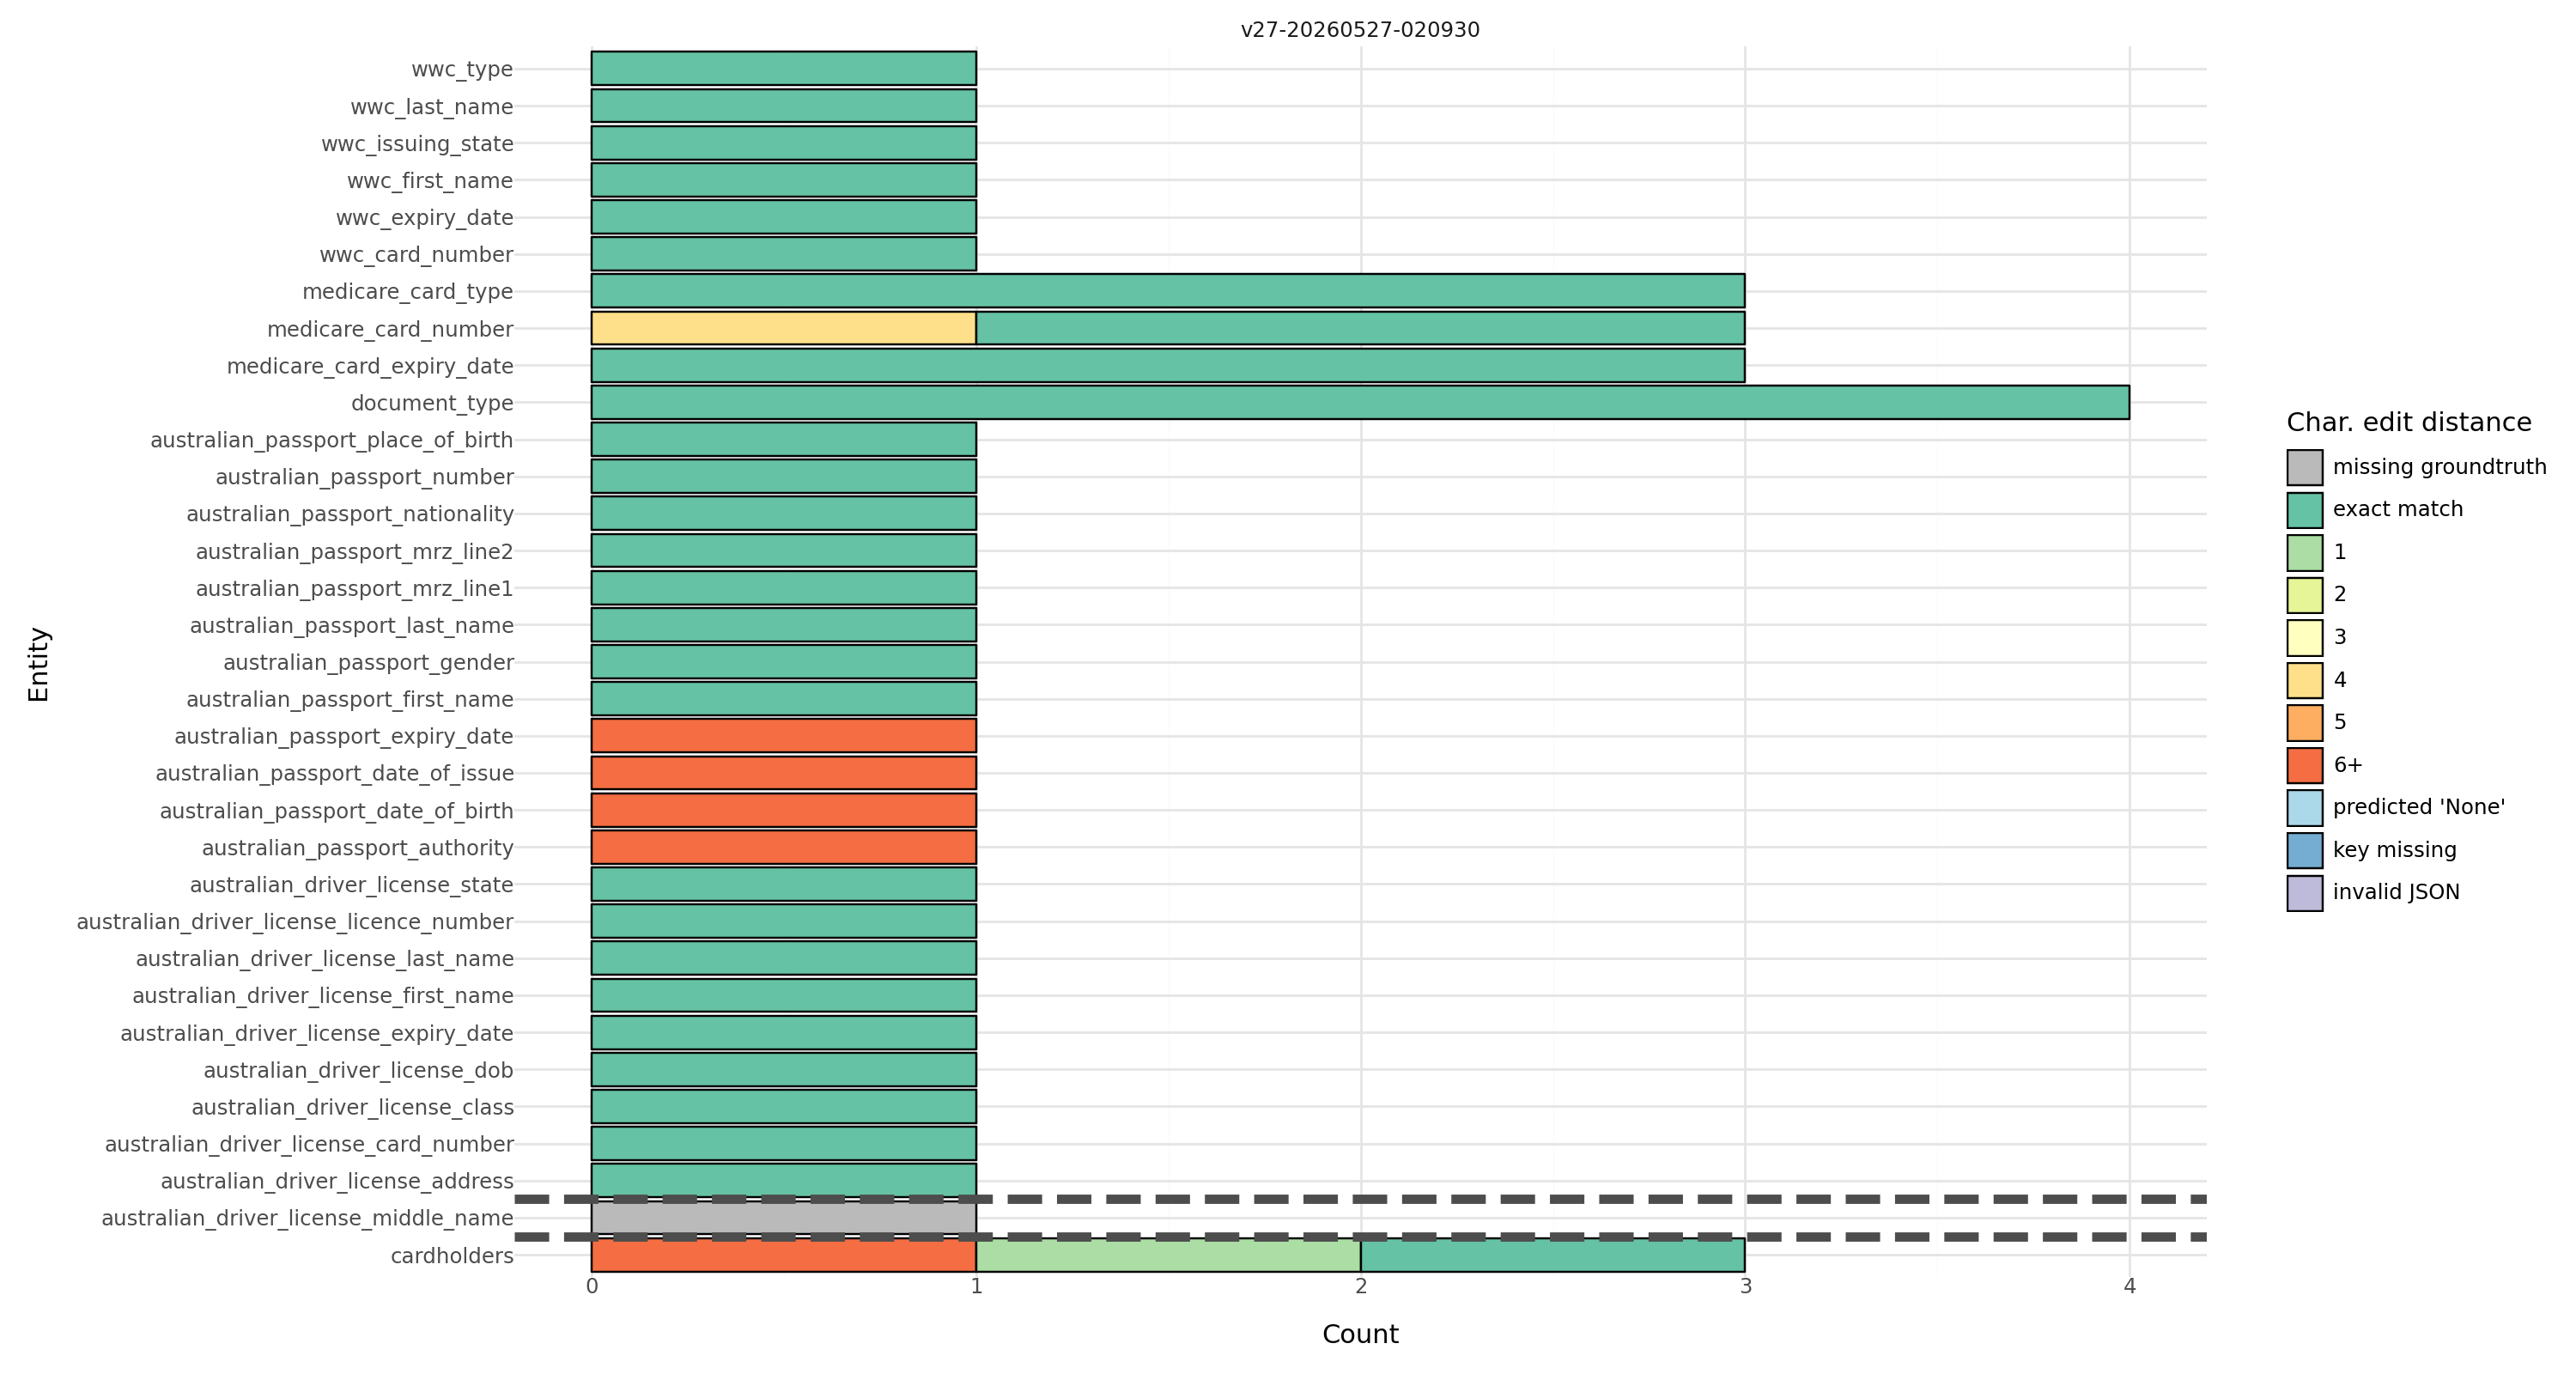
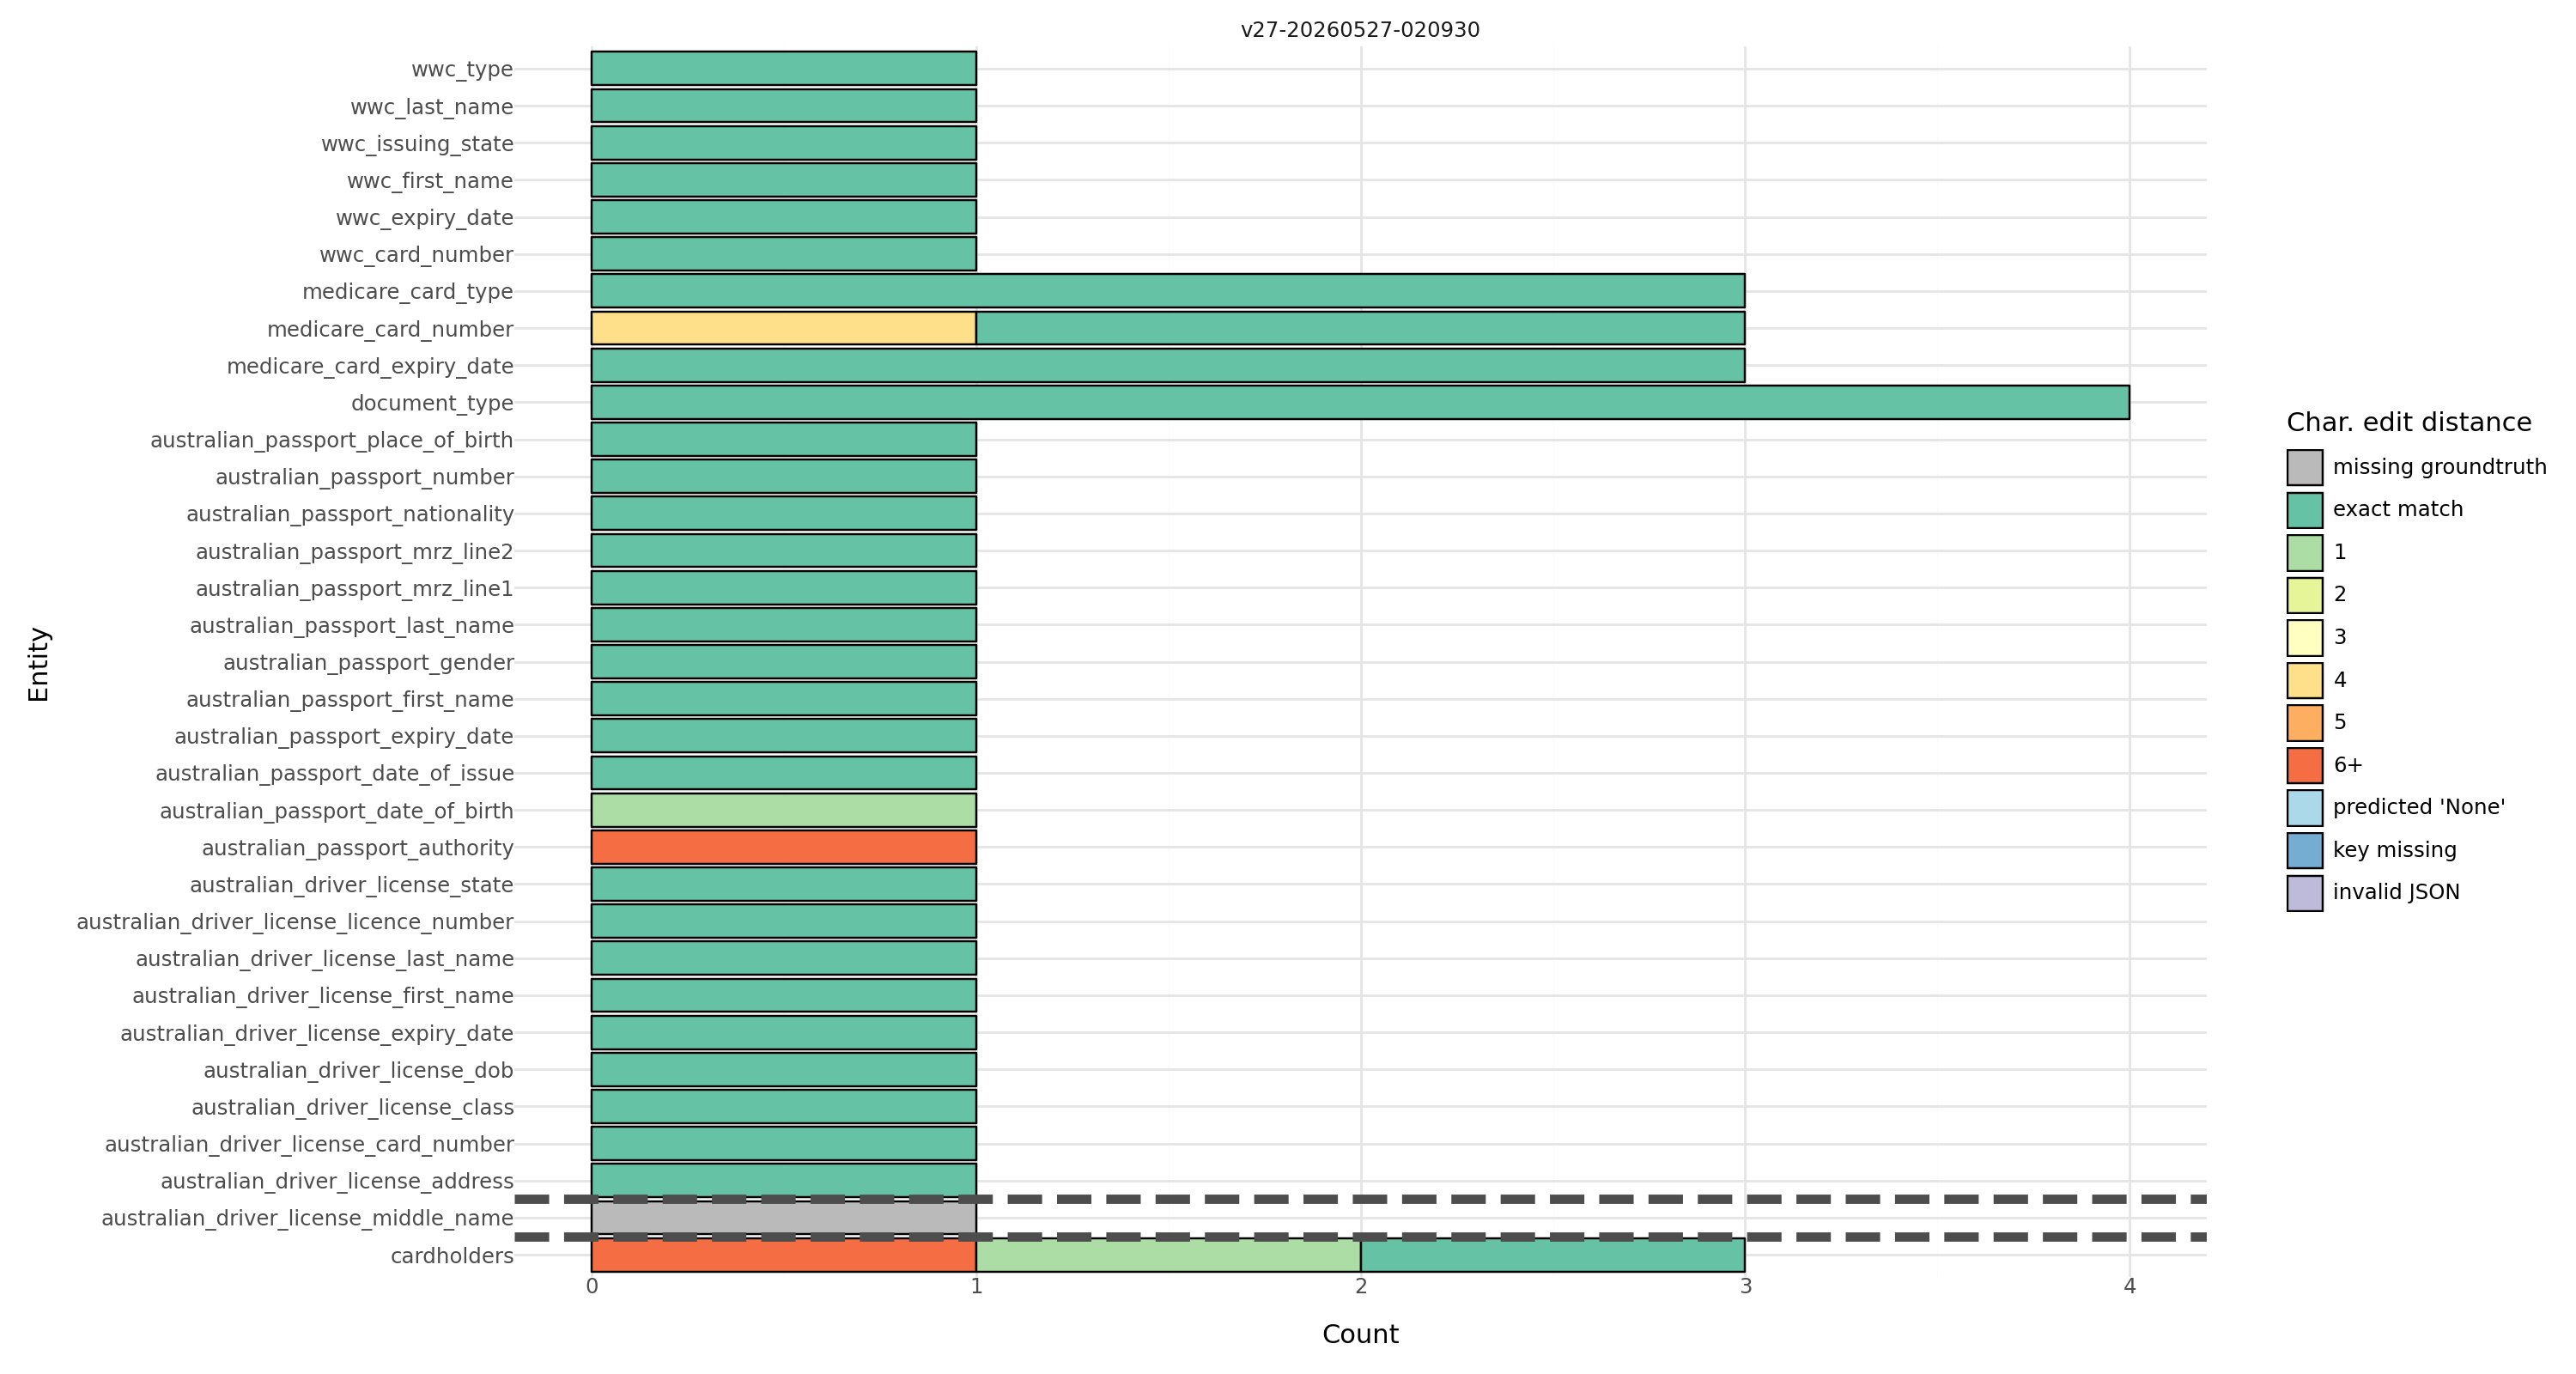
update: Step 4 5 6

Changed region(s): [[0.217, 0.5, 0.403, 0.625]]

diff --git a/.ipynb_checkpoints/OCR-Step4-5-6-checkpoint.md b/.ipynb_checkpoints/OCR-Step4-5-6-checkpoint.md
@@ -11,7 +11,7 @@ update later.
 
 # Step 6:
 # Fine-Tuning Report: Document Information Extraction
-- My notebook to fine-tune: [NotebookColab](https://colab.research.google.com/drive/1TNgAs_IInByV5f4pLvdbI3YwLIsJbSRe#scrollTo=tP3LSL97N2wx)
+- My notebook to fine-tune: [NotebookColab](https://colab.research.google.com/drive/1I8zJdJjWojup4fIWG3AS2MCJEQzURyO3#scrollTo=1vK8iiRS9a9y).
   
 Model: Qwen2-VL-2B-Instruct
 Framework: swift
@@ -34,7 +34,7 @@ data/
 - Now, I have ~10 image + json sample per passport, vic driver license, vic wwc, 3 type medicare card = ~ 70 sample.
 -  Schema json each type: [Step 2](ocr-project/OCR-Step2-Design-Schema.MD)
   
-# 02 -  Create Custom Dataset Swift Format [02_create_custom_dataset_swift_local.ipynb](https://drive.google.com/file/d/1BmtN3q8E-xjYm96ZBzOxnfXOVGZuIh8m/view?usp=drive_link)
+# [02 -  Create Custom Dataset Swift Format](https://drive.google.com/file/d/1BmtN3q8E-xjYm96ZBzOxnfXOVGZuIh8m/view?usp=drive_link)
 
 ## Goal: convert raw images and JSON labels into SWIFT training format.
 **1. Load data from local:** load_local_data(doc_dir, label_dir, skip_stems)
@@ -46,6 +46,7 @@ Scans labels/ recursively for .json files. For each label finds the matching ima
 - **Else** ==> Stratified by doc type, 80% train / 10% dev / 10% test, random seed 42. Types with fewer than 3 samples go entirely to train.
 - 
 ```text
+
 Distribution by document type:
 doc_type
 aus_driver_license/act       1
@@ -54,16 +55,15 @@ aus_driver_license/nt        1
 aus_driver_license/qld       1
 aus_driver_license/sa        1
 aus_driver_license/tas       1
-aus_driver_license/vic      11
+aus_driver_license/vic      16
 aus_driver_license/wa        1
 aus_medicare_card/blue      13
 aus_medicare_card/green     11
 aus_medicare_card/yellow    11
-aus_passport                11
-aus_wwc_card/vic            10
+aus_passport                26
+aus_wwc_card/vic            25
 
-Total: 74 samples, 13 types
-
+Total: 109 samples, 13 types
  Document Type                              Total  Train    Dev   Test
 ----------------------------------------------------------------------
 aus_driver_license/act                          1      1      0      0  (insufficient samples)
@@ -72,15 +72,16 @@ aus_driver_license/nt                           1      1      0      0  (insuffi
 aus_driver_license/qld                          1      1      0      0  (insufficient samples)
 aus_driver_license/sa                           1      1      0      0  (insufficient samples)
 aus_driver_license/tas                          1      1      0      0  (insufficient samples)
-aus_driver_license/vic                         11      9      1      1
+aus_driver_license/vic                         16     14      1      1
 aus_driver_license/wa                           1      1      0      0  (insufficient samples)
 aus_medicare_card/blue                         13     11      1      1
 aus_medicare_card/green                        11      9      1      1
 aus_medicare_card/yellow                       11      9      1      1
-aus_passport                                   11      9      1      1
-aus_wwc_card/vic                               10      8      1      1
+aus_passport                                   26     22      2      2
+aus_wwc_card/vic                               25     21      2      2
 ----------------------------------------------------------------------
- TOTAL                                         74     62      6      6
+ TOTAL                                        109     93      8      8
+ 
 ```
 
 **3. Extract images & create swift format:**
@@ -196,6 +197,7 @@ Such as:
 - *--freeze_aligner*: vector --> LLM Space.
 - *--gradient_checkpointing*: true -> down Vram, up time backward. Default = flase 
 
+--> Run (This result is from the previous time, not this time with data current):
 ```
 Train:   0%|          | 0/40 [00:00<?, ?it/s][INFO:swift] use_logits_to_keep: True
 
@@ -268,4 +270,6 @@ Input an image path or URL <<< /content/template.jpg
 
 # 05 - Evalution
 ![Evalution](img/evalution-model.png)
+
+
 

diff --git a/OCR-Step4-5-6.md b/OCR-Step4-5-6.md
@@ -11,7 +11,7 @@ update later.
 
 # Step 6:
 # Fine-Tuning Report: Document Information Extraction
-- My notebook to fine-tune: [NotebookColab](https://colab.research.google.com/drive/1TNgAs_IInByV5f4pLvdbI3YwLIsJbSRe#scrollTo=tP3LSL97N2wx)
+- My notebook to fine-tune: [NotebookColab](https://colab.research.google.com/drive/1I8zJdJjWojup4fIWG3AS2MCJEQzURyO3#scrollTo=1vK8iiRS9a9y).
   
 Model: Qwen2-VL-2B-Instruct
 Framework: swift
@@ -34,7 +34,7 @@ data/
 - Now, I have ~10 image + json sample per passport, vic driver license, vic wwc, 3 type medicare card = ~ 70 sample.
 -  Schema json each type: [Step 2](ocr-project/OCR-Step2-Design-Schema.MD)
   
-# 02 -  Create Custom Dataset Swift Format [02_create_custom_dataset_swift_local.ipynb](https://drive.google.com/file/d/1BmtN3q8E-xjYm96ZBzOxnfXOVGZuIh8m/view?usp=drive_link)
+# [02 -  Create Custom Dataset Swift Format](https://drive.google.com/file/d/1BmtN3q8E-xjYm96ZBzOxnfXOVGZuIh8m/view?usp=drive_link)
 
 ## Goal: convert raw images and JSON labels into SWIFT training format.
 **1. Load data from local:** load_local_data(doc_dir, label_dir, skip_stems)
@@ -46,6 +46,7 @@ Scans labels/ recursively for .json files. For each label finds the matching ima
 - **Else** ==> Stratified by doc type, 80% train / 10% dev / 10% test, random seed 42. Types with fewer than 3 samples go entirely to train.
 - 
 ```text
+
 Distribution by document type:
 doc_type
 aus_driver_license/act       1
@@ -54,16 +55,15 @@ aus_driver_license/nt        1
 aus_driver_license/qld       1
 aus_driver_license/sa        1
 aus_driver_license/tas       1
-aus_driver_license/vic      11
+aus_driver_license/vic      16
 aus_driver_license/wa        1
 aus_medicare_card/blue      13
 aus_medicare_card/green     11
 aus_medicare_card/yellow    11
-aus_passport                11
-aus_wwc_card/vic            10
+aus_passport                26
+aus_wwc_card/vic            25
 
-Total: 74 samples, 13 types
-
+Total: 109 samples, 13 types
  Document Type                              Total  Train    Dev   Test
 ----------------------------------------------------------------------
 aus_driver_license/act                          1      1      0      0  (insufficient samples)
@@ -72,15 +72,16 @@ aus_driver_license/nt                           1      1      0      0  (insuffi
 aus_driver_license/qld                          1      1      0      0  (insufficient samples)
 aus_driver_license/sa                           1      1      0      0  (insufficient samples)
 aus_driver_license/tas                          1      1      0      0  (insufficient samples)
-aus_driver_license/vic                         11      9      1      1
+aus_driver_license/vic                         16     14      1      1
 aus_driver_license/wa                           1      1      0      0  (insufficient samples)
 aus_medicare_card/blue                         13     11      1      1
 aus_medicare_card/green                        11      9      1      1
 aus_medicare_card/yellow                       11      9      1      1
-aus_passport                                   11      9      1      1
-aus_wwc_card/vic                               10      8      1      1
+aus_passport                                   26     22      2      2
+aus_wwc_card/vic                               25     21      2      2
 ----------------------------------------------------------------------
- TOTAL                                         74     62      6      6
+ TOTAL                                        109     93      8      8
+ 
 ```
 
 **3. Extract images & create swift format:**
@@ -196,6 +197,7 @@ Such as:
 - *--freeze_aligner*: vector --> LLM Space.
 - *--gradient_checkpointing*: true -> down Vram, up time backward. Default = flase 
 
+--> Run (This result is from the previous time, not this time with data current):
 ```
 Train:   0%|          | 0/40 [00:00<?, ?it/s][INFO:swift] use_logits_to_keep: True
 
@@ -268,4 +270,6 @@ Input an image path or URL <<< /content/template.jpg
 
 # 05 - Evalution
 ![Evalution](img/evalution-model.png)
+
+
 

diff --git a/README.MD b/README.MD
@@ -78,5 +78,4 @@ Having some generated sample data at: [synthetic-doc-generator-data](https://git
 
 - The fine-tune process will be based on: [Fine-tune VLMs](https://aws.amazon.com/blogs/machine-learning/fine-tune-vlms-for-multipage-document-to-json-with-sagemaker-ai-and-swift/#:~:text=Developing%20an%20evaluation%20framework%20to,and%20deploy%20models%20at%20scale)
 
-
 - My report: [Step4-5-6](OCR-Step4-5-6.md)....